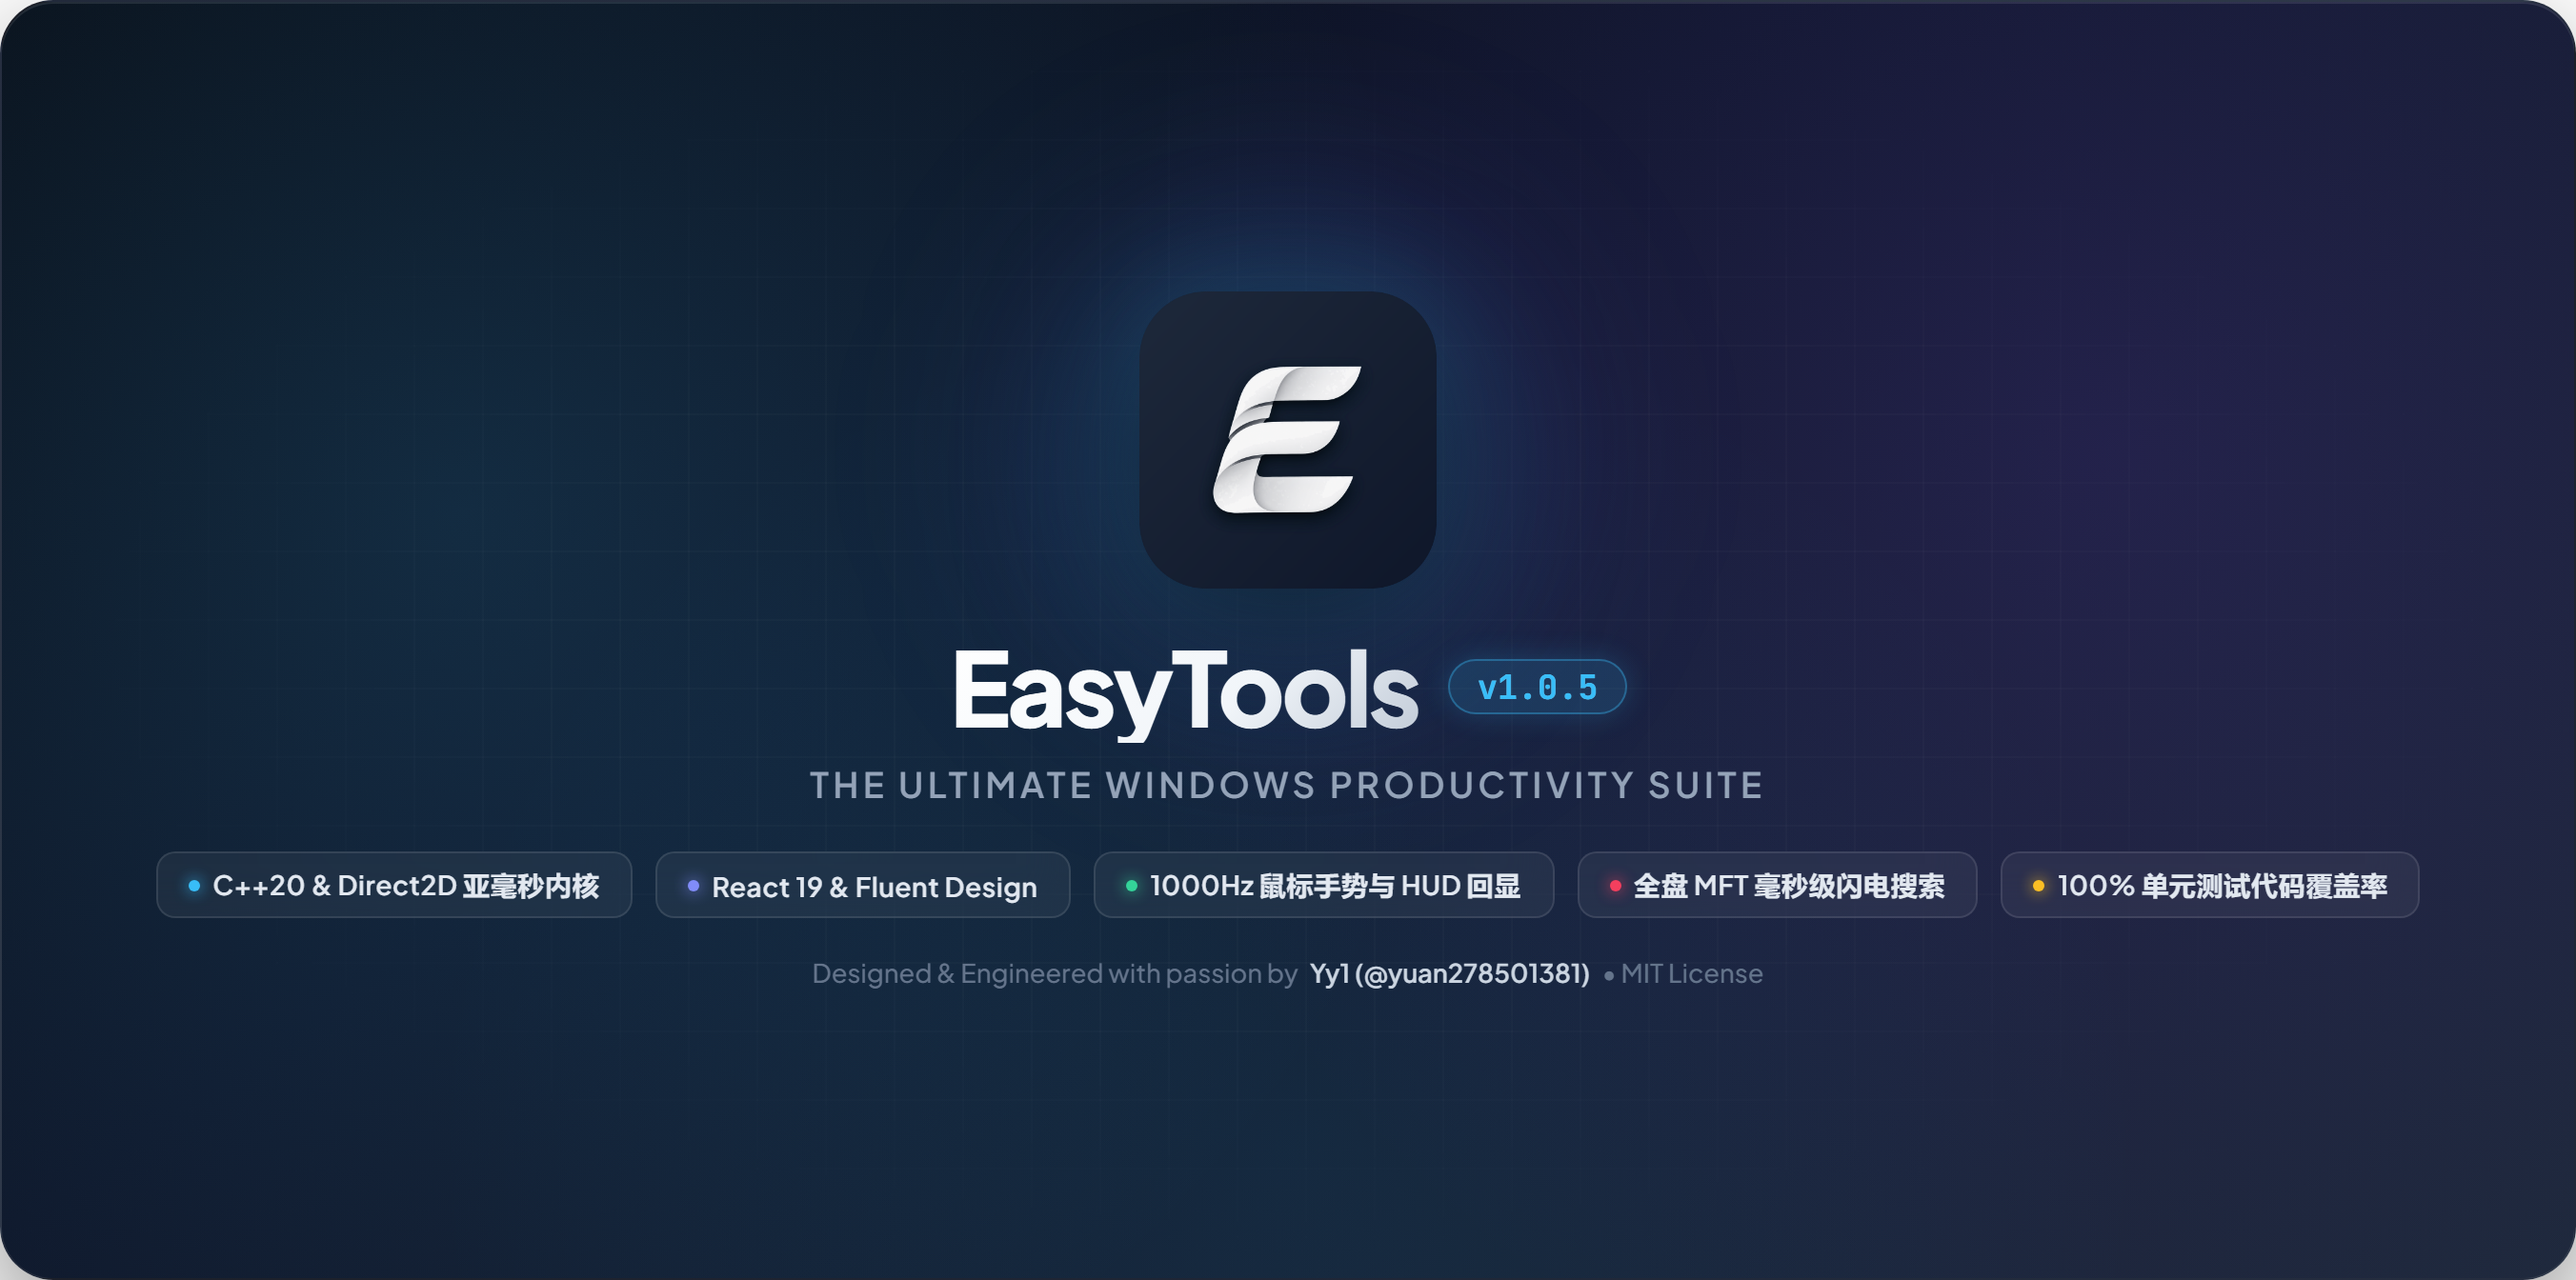
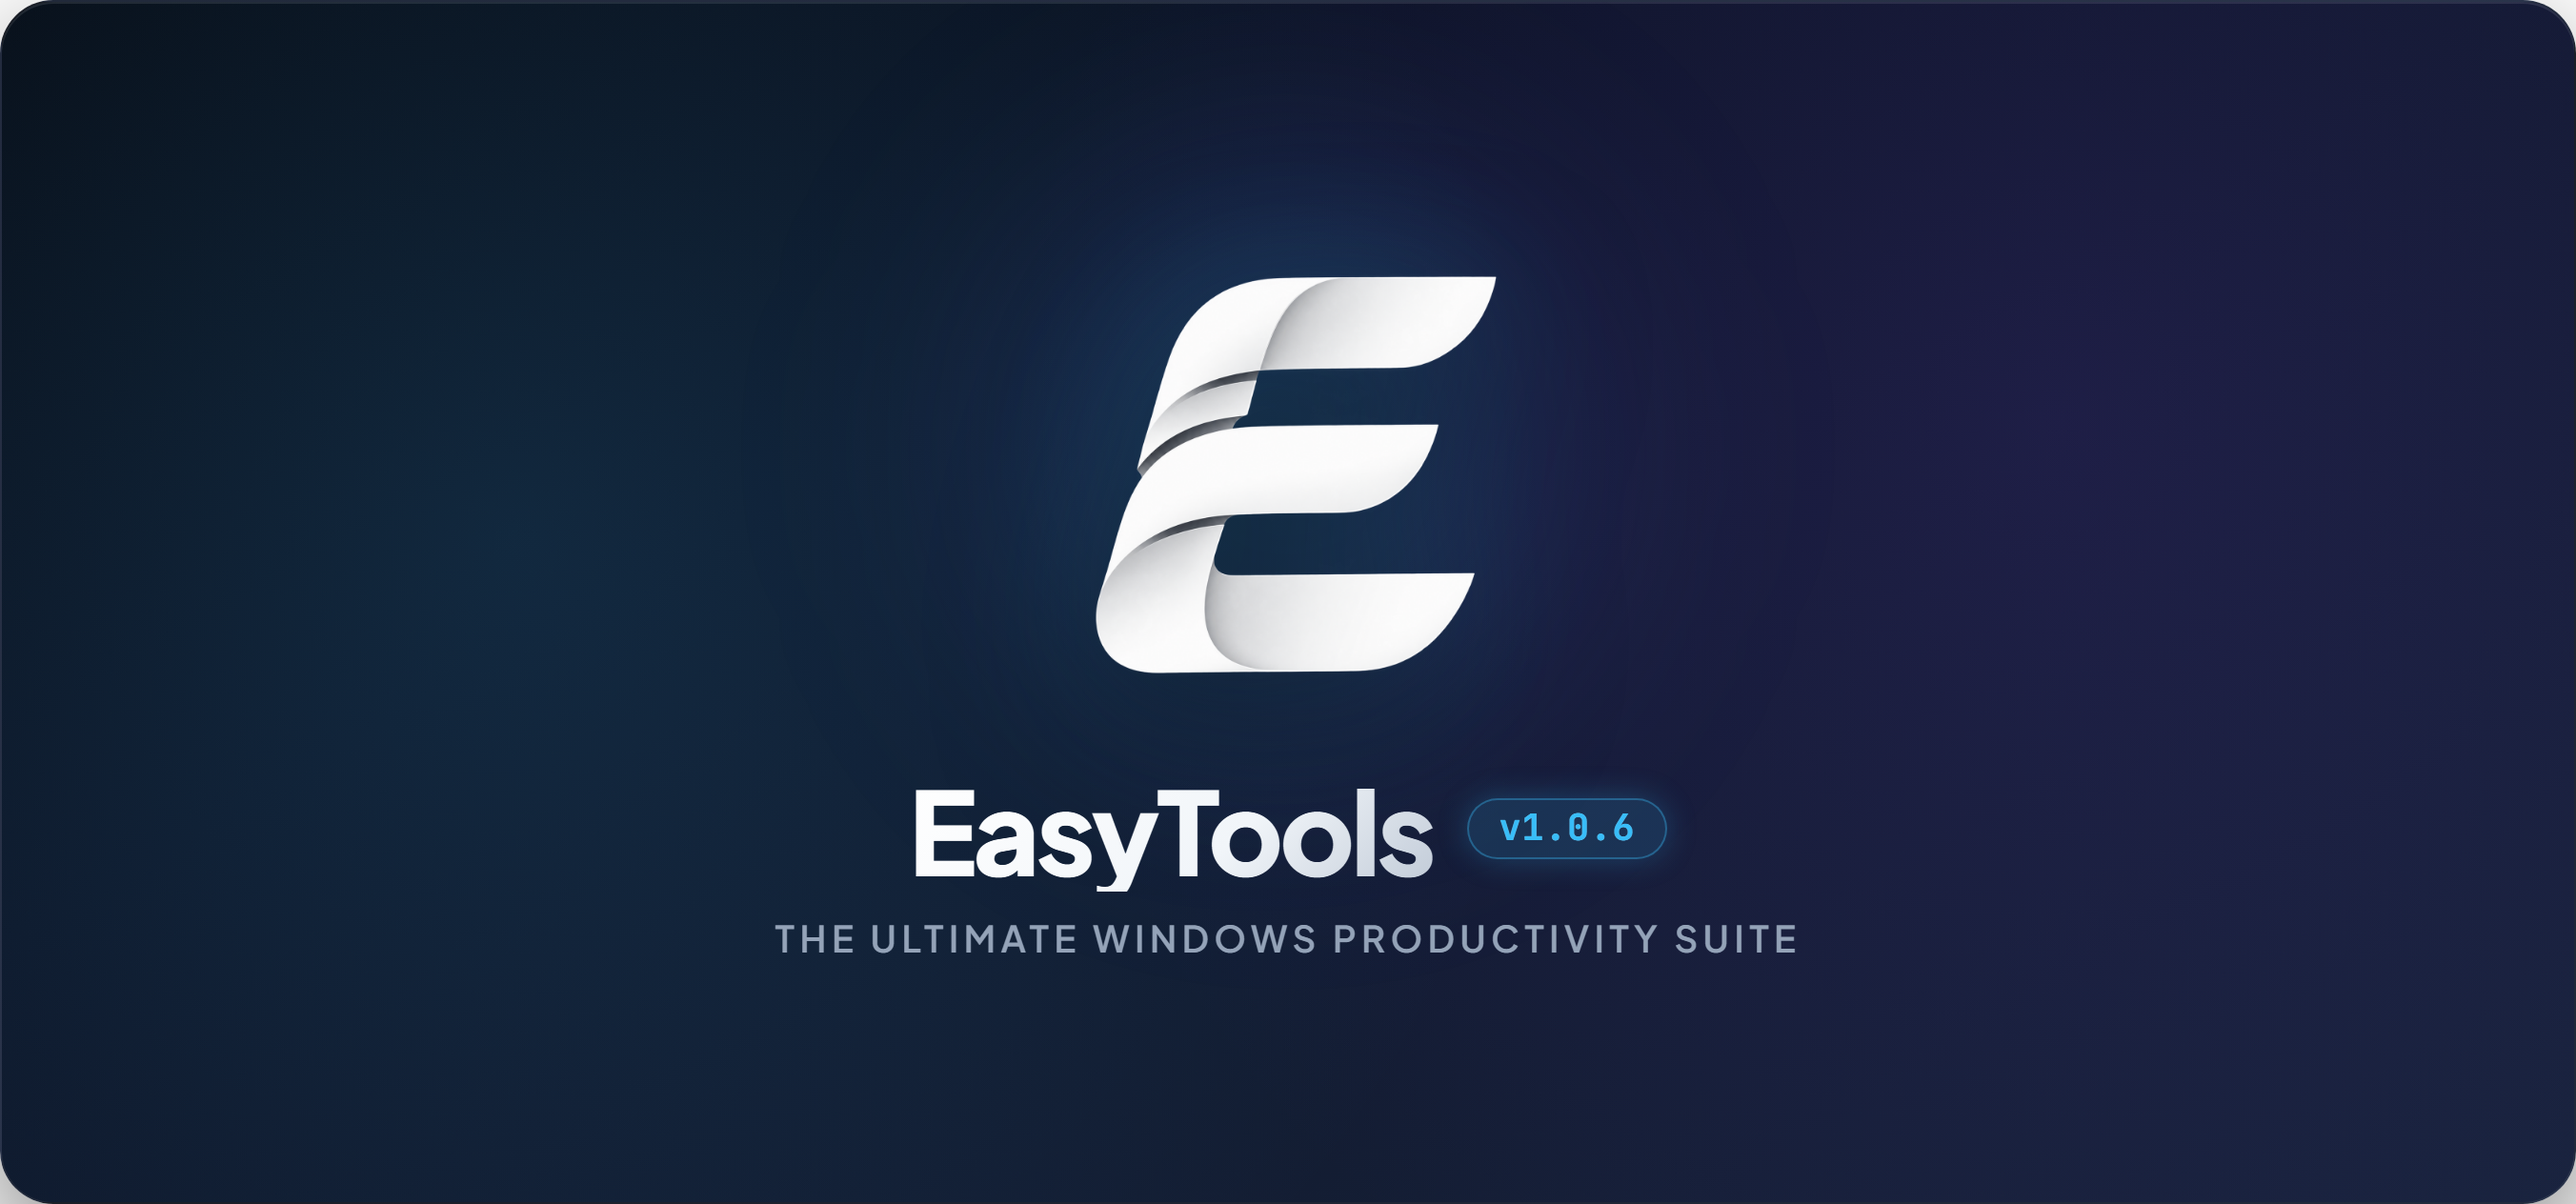
docs(readme): 更新 README 顶部展台头图为关于页大尺寸 E 徽标样式
💼 业务角度: 将 GitHub README.md 顶部展示图更新为与软件关于页面一致的极简大气风格，大幅放大立体丝带 E 徽标的特写占比，提升整体视觉冲击力与美感。

🔧 技术角度: 更新 render_readme_showcase.py 渲染脚本，采用 Logo_Origin.png 高清位图源与 Playwright 2x Retina 离屏光栅化。

Changed region(s): [[0.0621, 0.216, 0.932, 0.8022]]

diff --git a/resources/render_readme_showcase.py b/resources/render_readme_showcase.py
@@ -5,7 +5,7 @@ from playwright.async_api import async_playwright
 
 async def render_banner():
     repo_root = os.path.dirname(os.path.dirname(os.path.abspath(__file__)))
-    logo_path = os.path.join(repo_root, "resources", "app_icon_hires.png")
+    logo_path = os.path.join(repo_root, "ui", "public", "Logo_Origin.png")
     output_dir = os.path.join(repo_root, "docs", "images")
     os.makedirs(output_dir, exist_ok=True)
     output_path = os.path.join(output_dir, "about_hero_showcase.png")
@@ -18,7 +18,7 @@ async def render_banner():
 <head>
 <meta charset="utf-8">
 <style>
-  @import url('https://fonts.googleapis.com/css2?family=Plus+Jakarta+Sans:wght@400;500;600;700;800&family=JetBrains+Mono:wght@500;700&display=swap');
+  @import url('https://fonts.googleapis.com/css2?family=Plus+Jakarta+Sans:wght@400;500;600;700;800;900&family=JetBrains+Mono:wght@600;700&display=swap');
 
   * {{
     box-sizing: border-box;
@@ -34,7 +34,7 @@ async def render_banner():
     font-family: 'Plus Jakarta Sans', -apple-system, BlinkMacSystemFont, "Segoe UI", Roboto, sans-serif;
     padding: 24px;
     width: 1400px;
-    height: 720px;
+    height: 680px;
     overflow: hidden;
   }}
 
@@ -47,9 +47,9 @@ async def render_banner():
     align-items: center;
     justify-content: center;
     border-radius: 28px;
-    background: linear-gradient(145deg, #090d16 0%, #0f172a 40%, #1e293b 100%);
+    background: linear-gradient(150deg, #070b14 0%, #0d1527 35%, #18233c 100%);
     overflow: hidden;
-    box-shadow: 0 24px 64px rgba(0, 0, 0, 0.45), inset 0 1px 0 rgba(255, 255, 255, 0.1);
+    box-shadow: 0 24px 64px rgba(0, 0, 0, 0.5), inset 0 1px 0 rgba(255, 255, 255, 0.1);
     border: 1px solid rgba(255, 255, 255, 0.08);
   }}
 
@@ -58,48 +58,38 @@ async def render_banner():
     position: absolute;
     top: 0; left: 0; right: 0; bottom: 0;
     background-image: 
-      radial-gradient(circle at 18% 40%, rgba(56, 189, 248, 0.14) 0%, transparent 45%),
-      radial-gradient(circle at 82% 35%, rgba(124, 58, 237, 0.14) 0%, transparent 45%),
-      radial-gradient(circle at 50% 90%, rgba(14, 165, 233, 0.08) 0%, transparent 50%);
-    pointer-events: none;
-  }}
-
-  .grid-pattern {{
-    position: absolute;
-    inset: 0;
-    background-size: 36px 36px;
-    background-image: 
-      linear-gradient(to right, rgba(255, 255, 255, 0.02) 1px, transparent 1px),
-      linear-gradient(to bottom, rgba(255, 255, 255, 0.02) 1px, transparent 1px);
-    mask-image: radial-gradient(ellipse at center, black 40%, transparent 75%);
-    -webkit-mask-image: radial-gradient(ellipse at center, black 40%, transparent 75%);
+      radial-gradient(circle at 20% 45%, rgba(56, 189, 248, 0.12) 0%, transparent 48%),
+      radial-gradient(circle at 80% 35%, rgba(124, 58, 237, 0.12) 0%, transparent 48%);
     pointer-events: none;
   }}
 
   .aura {{
     position: absolute;
-    width: 320px;
-    height: 320px;
-    background: radial-gradient(circle, rgba(56, 189, 248, 0.28) 0%, rgba(99, 102, 241, 0.16) 50%, transparent 70%);
-    filter: blur(50px);
+    width: 380px;
+    height: 380px;
+    background: radial-gradient(circle, rgba(56, 189, 248, 0.22) 0%, rgba(99, 102, 241, 0.12) 50%, transparent 70%);
+    filter: blur(65px);
     border-radius: 50%;
-    top: 40%;
+    top: 42%;
     left: 50%;
-    transform: translate(-50%, -60%);
+    transform: translate(-50%, -58%);
     pointer-events: none;
   }}
 
   .logo-container {{
     position: relative;
     z-index: 2;
-    margin-bottom: 22px;
+    margin-bottom: 24px;
+    display: flex;
+    align-items: center;
+    justify-content: center;
   }}
 
   .logo-img {{
-    width: 156px;
-    height: 156px;
-    filter: drop-shadow(0 20px 40px rgba(0, 0, 0, 0.65)) drop-shadow(0 0 25px rgba(56, 189, 248, 0.25));
-    border-radius: 34px;
+    width: 250px;
+    height: 250px;
+    object-fit: contain;
+    filter: drop-shadow(0 24px 40px rgba(0, 0, 0, 0.55)) drop-shadow(0 0 35px rgba(56, 189, 248, 0.2));
     display: block;
   }}
 
@@ -113,8 +103,8 @@ async def render_banner():
   }}
 
   .brand-title {{
-    font-size: 3.4rem;
-    font-weight: 800;
+    font-size: 3.8rem;
+    font-weight: 900;
     letter-spacing: -0.035em;
     background: linear-gradient(135deg, #ffffff 0%, #f1f5f9 45%, #94a3b8 100%);
     -webkit-background-clip: text;
@@ -122,82 +112,36 @@ async def render_banner():
     line-height: 1.1;
     display: flex;
     align-items: center;
-    gap: 16px;
+    justify-content: center;
+    gap: 18px;
   }}
 
   .version-tag {{
-    font-size: 1.1rem;
+    font-size: 1.2rem;
     font-weight: 700;
     font-family: 'JetBrains Mono', monospace;
-    background: rgba(56, 189, 248, 0.15);
+    background: rgba(56, 189, 248, 0.14);
     color: #38bdf8;
     border: 1px solid rgba(56, 189, 248, 0.35);
-    padding: 4px 14px;
+    padding: 4px 16px;
     border-radius: 999px;
-    letter-spacing: 0;
-    box-shadow: 0 0 15px rgba(56, 189, 248, 0.2);
+    letter-spacing: 0.02em;
+    box-shadow: 0 0 16px rgba(56, 189, 248, 0.25);
     -webkit-text-fill-color: #38bdf8;
   }}
 
   .subtitle {{
-    margin-top: 10px;
-    font-size: 1.15rem;
+    margin-top: 12px;
+    font-size: 1.2rem;
     color: #94a3b8;
     font-weight: 600;
-    letter-spacing: 0.12em;
+    letter-spacing: 0.14em;
     text-transform: uppercase;
-  }}
-
-  .feature-pills {{
-    margin-top: 24px;
-    display: flex;
-    gap: 12px;
-    flex-wrap: wrap;
-    justify-content: center;
-  }}
-
-  .pill {{
-    display: inline-flex;
-    align-items: center;
-    gap: 7px;
-    background: rgba(255, 255, 255, 0.05);
-    border: 1px solid rgba(255, 255, 255, 0.1);
-    backdrop-filter: blur(12px);
-    padding: 7px 16px;
-    border-radius: 10px;
-    font-size: 0.88rem;
-    font-weight: 600;
-    color: #e2e8f0;
-    letter-spacing: 0.02em;
-  }}
-
-  .pill-dot {{
-    width: 6px;
-    height: 6px;
-    border-radius: 50%;
-    background: #38bdf8;
-    box-shadow: 0 0 8px #38bdf8;
-  }}
-
-  .author-badge {{
-    margin-top: 20px;
-    font-size: 0.85rem;
-    color: #64748b;
-    display: flex;
-    align-items: center;
-    gap: 6px;
-    font-weight: 500;
-  }}
-
-  .author-name {{
-    color: #cbd5e1;
-    font-weight: 600;
   }}
 </style>
 </head>
 <body>
   <div class="grand-showcase">
-    <div class="grid-pattern"></div>
     <div class="aura"></div>
     
     <div class="logo-container">
@@ -207,23 +151,9 @@ async def render_banner():
     <div class="text-content">
       <div class="brand-title">
         <span>EasyTools</span>
-        <span class="version-tag">v1.0.5</span>
+        <span class="version-tag">v1.0.6</span>
       </div>
       <p class="subtitle">The Ultimate Windows Productivity Suite</p>
-      
-      <div class="feature-pills">
-        <div class="pill"><span class="pill-dot"></span>C++20 & Direct2D 亚毫秒内核</div>
-        <div class="pill"><span class="pill-dot" style="background:#818cf8;box-shadow:0 0 8px #818cf8;"></span>React 19 & Fluent Design</div>
-        <div class="pill"><span class="pill-dot" style="background:#34d399;box-shadow:0 0 8px #34d399;"></span>1000Hz 鼠标手势与 HUD 回显</div>
-        <div class="pill"><span class="pill-dot" style="background:#f43f5e;box-shadow:0 0 8px #f43f5e;"></span>全盘 MFT 毫秒级闪电搜索</div>
-        <div class="pill"><span class="pill-dot" style="background:#fbbf24;box-shadow:0 0 8px #fbbf24;"></span>100% 单元测试代码覆盖率</div>
-      </div>
-
-      <div class="author-badge">
-        <span>Designed & Engineered with passion by</span>
-        <span class="author-name">Yy1 (@yuan278501381)</span>
-        <span>• MIT License</span>
-      </div>
     </div>
   </div>
 </body>
@@ -236,7 +166,7 @@ async def render_banner():
 
     async with async_playwright() as p:
         browser = await p.chromium.launch()
-        page = await browser.new_page(viewport={"width": 1400, "height": 720}, device_scale_factor=2)
+        page = await browser.new_page(viewport={"width": 1400, "height": 680}, device_scale_factor=2)
         await page.goto(f"file://{temp_html}")
         await page.locator(".grand-showcase").screenshot(path=output_path, omit_background=True)
         await browser.close()
